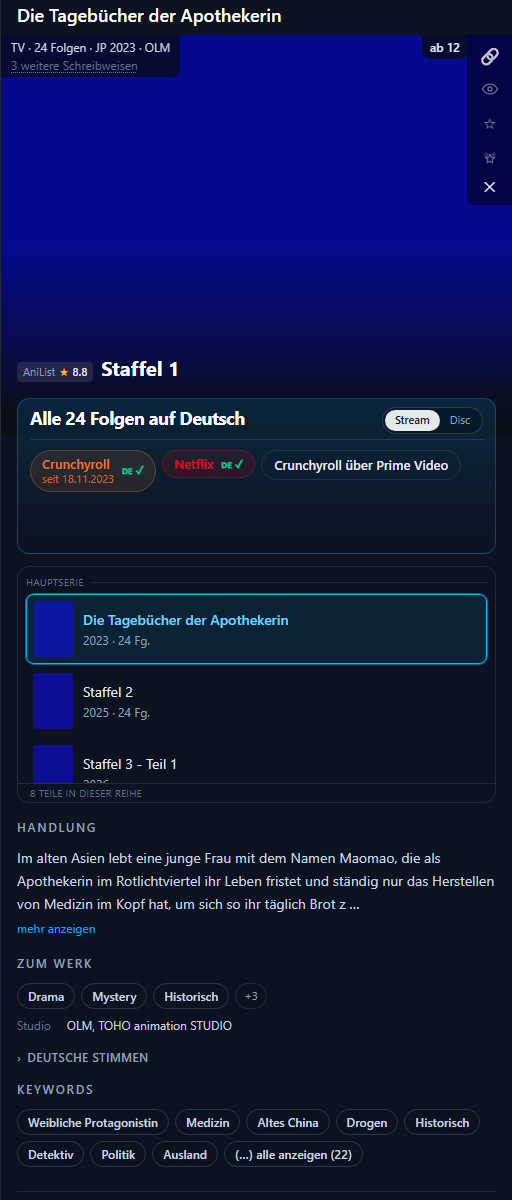
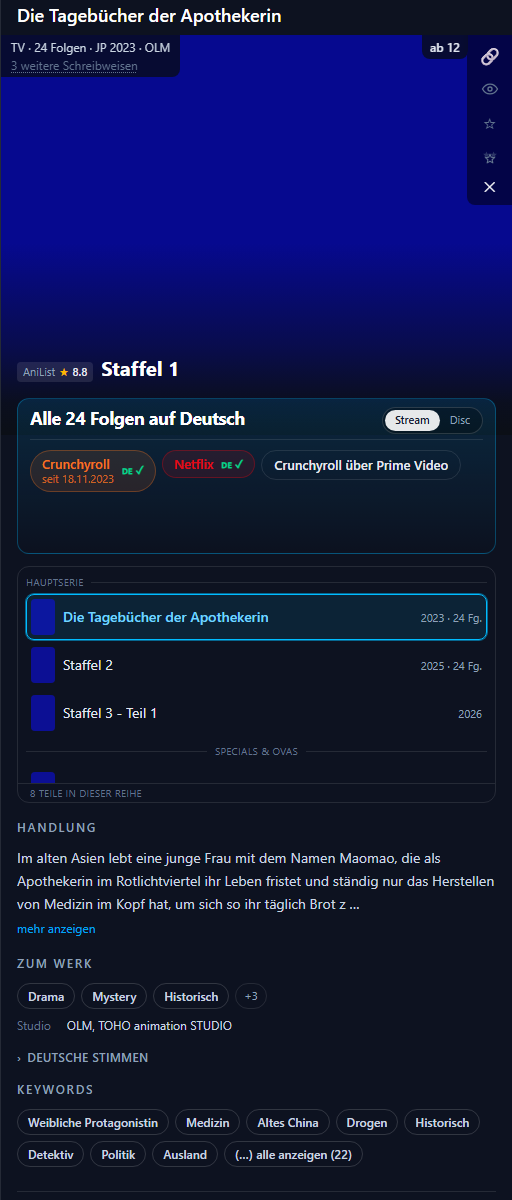
Fünf Einträge statt drei — und ein Plan, den die Messung kippt
Die Reihenliste brauchte 70 px je Zeile, davon 26 Luft: Das Cover (40×56) gab
die Höhe vor, der Text stand darunter. Titel und Angaben stehen jetzt
nebeneinander, das Cover ist 24×36 — 44 px je Zeile, fünf Teile sichtbar
statt drei.

Und zwei Aufgaben sind durch Messung erledigt, nicht durch Code:

**Vollständig deutsche Crunchyroll-Blöcke** sollten Verweise belegen, an denen
die Folgennummern-Regel scheitert. Gemessen über alle 969 Serien: 31 Verweise
ohne Urteil (nicht 40), davon sicher belegbar **null**. Der sichere Schluss
verlangt, dass *alle* Blöcke einer Serie restlos deutsch sind — keine der 16
Adressen erfüllt das, an jeder hängt ein Block, der läuft oder untertitelt ist.

Der naheliegende Ausweg ist gemessen falsch: Eine Präfix-Kette belegt drei
Titel, und einer davon ist „Sword Art Online: Extra Edition" — ein Special mit
einer Folge, das in keinem Block steht. Wörtlich der Fehler, vor dem CLAUDE.md
warnt.

**Die leere Unterzeile** stammt nicht aus den Daten. Über alle drei Bestände
gezählt — 2.766, 454 und 15.120 Titel —: kein einziger, dem alle vier Angaben
fehlen. titles-core lässt kein Feld weg, der Katalog nur `studios`. Es war ein
Renderzustand, und den fängt die Absicherung von heute Nacht.

Dazu die Wache durchgesehen (Stand 03.09., unauffällig) und dabei gefunden:
Ihr Cron hat noch nie von selbst gefeuert, beide Läufe waren von Hand. Ein Tag
ist zu wenig für ein Urteil — am 05.09. steht die Gegenprobe an.

diff --git a/web/src/components/DetailPanel.tsx b/web/src/components/DetailPanel.tsx
@@ -2814,7 +2814,19 @@ export function DetailPanel({
                         }
                         onClick={() => !gewaehlt && wechsleZu(m.id)}
                         className={[
-                          'flex w-full items-center gap-2.5 rounded-lg border p-1.5 text-left transition',
+                          /*
+                            **Eine Zeile je Teil, nicht zwei.**
+
+                            Gemessen am 04.09.2026: 70 px je Zeile, davon 26 px
+                            Luft — das Cover (40×56) gab die Höhe vor, der Text
+                            brauchte 37. Bei 216 px sichtbarer Höhe waren das
+                            drei Teile; eine Reihe mit acht sah nach dreien aus.
+
+                            Titel und Angaben stehen jetzt nebeneinander statt
+                            untereinander, das Cover ist auf 24×36 gekürzt: 44 px
+                            je Zeile, fünf statt drei sichtbar.
+                          */
+                          'flex w-full items-center gap-2 rounded-lg border p-1 text-left transition',
                           'focus:outline-none focus-visible:ring-2 focus-visible:ring-sky-400 disabled:opacity-60',
                           gewaehlt
                             ? 'border-sky-400 bg-sky-50 ring-1 ring-sky-400/50 dark:bg-sky-400/10'
@@ -2827,7 +2839,7 @@ export function DetailPanel({
                       >
                         <span
                           className={[
-                            'block h-14 w-10 shrink-0 overflow-hidden rounded bg-slate-200 dark:bg-white/5',
+                            'block h-9 w-6 shrink-0 overflow-hidden rounded bg-slate-200 dark:bg-white/5',
                             offen ? 'opacity-60' : '',
                           ].join(' ')}
                         >
@@ -2840,10 +2852,10 @@ export function DetailPanel({
                             />
                           )}
                         </span>
-                        <span className="min-w-0 flex-1">
+                        <span className="flex min-w-0 flex-1 items-baseline gap-2">
                           <span
                             className={[
-                              'block text-sm leading-snug',
+                              'min-w-0 truncate text-sm leading-tight',
                               gewaehlt
                                 ? 'font-medium text-sky-700 dark:text-sky-300'
                                 : 'text-slate-700 dark:text-slate-200',
@@ -2851,7 +2863,9 @@ export function DetailPanel({
                           >
                             {beschriftung}
                           </span>
-                          <span className="mt-0.5 block text-xs text-slate-500 dark:text-slate-400">
+                          {/* Rechts, damit der Titel den ganzen übrigen Platz bekommt —
+                              „2026 · 12 Fg." ist immer kurz, ein Titel selten. */}
+                          <span className="ml-auto shrink-0 text-[11px] text-slate-500 dark:text-slate-400">
                             {[
                               m.format && m.format !== 'TV' ? (FORMAT_DE[m.format] ?? m.format) : '',
                               m.jpYear,

diff --git a/status.md b/status.md
@@ -13,14 +13,13 @@ verworfene Quelle sonst in drei Monaten ein zweites Mal geprüft wird.
 
 | Aufgabe | zuletzt geprüft | Notiz |
 |---|---|---|
-| **Wache durchsehen** | **2026-09-03T10:20+02:00** | Sind seit diesem Zeitpunkt mehr als 24 Stunden vergangen, wird `daniel-zum-abarbeiten/00-wache.md` und `00-wache-auswertung.md` gelesen, danach der Zeitstempel hier erneuert. Beurteilt wird entlang der vier Fragen: Was läuft korrekt, wo ist Verbesserungspotenzial, wo sind echte Risiken und Lücken, was läuft komplett falsch. **Der Stempel wird nur erneuert, wenn wirklich gelesen wurde** — sonst ist er eine Zahl, die Händewaschen behauptet |
+| **Wache durchsehen** | **2026-09-04T10:00+02:00** | Sind seit diesem Zeitpunkt mehr als 24 Stunden vergangen, wird `daniel-zum-abarbeiten/00-wache.md` und `00-wache-auswertung.md` gelesen, danach der Zeitstempel hier erneuert. Beurteilt wird entlang der vier Fragen: Was läuft korrekt, wo ist Verbesserungspotenzial, wo sind echte Risiken und Lücken, was läuft komplett falsch. **Der Stempel wird nur erneuert, wenn wirklich gelesen wurde** — sonst ist er eine Zahl, die Händewaschen behauptet |
 
 ### In Arbeit
 
 | Aufgabe | SP | Notiz |
 |---|---|---|
-| **Ein vollständig deutscher Block belegt jede Folge darin** | 5 | Daniel am 04.09.2026, mit Bild: „wieso crunchy fragezeichen? es sollte keine fragezeichen mehr geben seit wir den crunchy lauf implementiert haben" — dazu die Gegenprobe von Hand: „staffel 2 und staffel 2 teil 2, beides weiterhin auf crunchy komplett synchronisiert". **Gemessen an „Schleim" (GYZJ43JMR):** Der Lauf kennt die Serie (`katalog: de`, `deutschImAngebot: true`), und Block „Staffel 2" hat 25 von 25 Folgen deutsch. Unser Bestand teilt dieselbe Staffel in **zwei** Titel zu je 12 Folgen (108511, 116742) plus „Die Schleim-Tagebücher". `beurteileNachFolgennummern` verlangt in Sperre 2, dass die Summe unserer Folgen exakt der höchsten Crunchyroll-Nummer entspricht — sie tut es nicht, also fällt das Urteil aus und die Pille zeigt „?". **Die ungenutzte Schlussfolgerung:** Ist ein Block vollständig deutsch, ist jede Folge darin deutsch, egal wie wir ihn aufteilen. Betroffen sind **40 Crunchyroll-Verweise ohne Urteil**. **Vorsicht ist Pflicht:** Das ist die Stelle, an der `CLAUDE.md` drei teure Fehlschläge dokumentiert („ein Block ist kein Beleg über die Serie"). Der Umbau braucht eine Gegenprobe über alle 969 Serien und einen Blick auf `check:cr-zuordnung`, bevor er ausgeliefert wird |
-| **Leere Unterzeile im Panel — Ursache unbekannt** | 3 | Daniel am 04.09.2026, mit Bild: Der graue Kasten links oben über dem Cover stand leer, bei „Die Tagebücher der Apothekerin". Aufgetreten beim Wechsel zwischen Tabs, **nicht wiederholbar**: „ich kann es nicht mehr reproduzieren … pack auf die todo es morgen zu untersuchen wie es passieren könnte und fix es." **Der sichtbare Schaden ist am selben Tag verhindert** — die Unterzeile wird nur noch gezeichnet, wenn mindestens eine der vier Angaben (Format, Folgenzahl, Jahr, Studio) da ist. **Offen bleibt die Ursache:** Wie kommt ein `title` in den Zustand, in dem alle vier fehlen? Verdächtig ist der Nachlade-Weg beim Einstieg über eine geteilte Adresse (`loadAllTitles` + `loadOhneSynchro`): Ein Titel aus dem Katalog hinter dem Toggle trägt weniger Felder als einer aus dem Hauptbestand. Zu prüfen ist, ob `titles-ohne-synchro.json` Einträge ohne `format`, `jpYear` und `studios` führt und ob einer davon während des Wechsels kurz gewinnt |
+| **Der planmäßige Wache-Lauf hat noch nie von selbst gefeuert** | 2 | Durchgesehen am 04.09.2026: `delta-wache.yml` trägt `cron: '20 7 * * *'` (09:20 Berlin) seit dem 03.09.2026. Beide bisherigen Läufe waren `workflow_dispatch` — von Hand. Der planmäßige Lauf heute um 09:20 blieb aus; um 10:04 von Hand angestoßen. **Ein Tag Beobachtung ist zu wenig für ein Urteil:** GitHub braucht bei einem neuen Cron bis zu einem Tag, und `schedule`-Läufe werden bei Last verworfen statt nachgeholt (siehe `CLAUDE.md`, der stündliche Lauf schafft 5,2 von 24). **Am 05.09. nachsehen:** Fällt der Lauf ein zweites Mal aus, ist der Cron für diesen Zweck untauglich — dann hängt die Wache an `workflow_run` hinter dem Bau-Lauf, der ohnehin täglich läuft |
 | **Zwei Rohfolgen-Adressen ohne Anker** | 2 | Stand 03.09.2026, gemessen an `data/prime-unzugeordnet.json`: Es sind noch **zwei**, aber nicht mehr dieselben. `B0C8X3SVR3` ist zugeordnet. Offen sind: (a) `B0GPD4GNLL` „1. Mein erstes Mal mit einer Gal", 11 Folgen — „kein Titel zu dieser Adresse", ohne Kennung; der Titel steht überhaupt nicht in unserem Bestand. (b) `0ST5YU69NBGTLE16XV4G99HZNC` „Karakai Jouzu no Takagi-san: Staffel 2" (AniList 107068), 12 Folgen — „keine einzige Folge zuzuordnen (Anker: aniSearch)". **Die Folgenliste ist da** (aniSearch 14102, 12 Folgen mit deutschem Titel und Datum, geholt am 01.09.). Der Anker trägt trotzdem nicht, und der Grund steht im Datensatz: Es ist ein **Segment-Anime**. aniSearchs Folgentitel sind Verkettungen („Lehrbuch / Hypnose / Aufwachen / Steine hüpfen lassen"), und kein Anbieter schreibt sie gleich. Bleibt das Datum — aniSearch führt die **japanische** Erstausstrahlung (2019-07-07 ff.), Prime meldet vermutlich das deutsche Veröffentlichungsdatum. **Belegen lässt sich das nur mit einer echten Meldung**; lokal ist `data/prime-zugeordnet.json` leer, weil der Briefkasten-Abruf ein `LAUF_TOKEN` braucht. Nächster Griff: im CI-Lauf mitlesen, welches Datum die Rohfolgen dieser Adresse tragen |
 | **Phase 4: die Erweiterung hört auf zu urteilen** | 8 | Worker ist ausgeliefert (29.08., Version 895b110a). `titelId` kommt seit dem 31.08. gefuellt an. Der Weg steht fuer Prime (`fetch-rohfolgen.ts`); **Netflix und Disney+ gehen ihn nicht** — dort entscheidet weiter die Staffelangabe des Anbieters, siehe „Sammeln und Zuordnen vollstaendig trennen" |
 | **Pokémon Sonne & Mond: 145 statt 146** | 1 | Daniel hat am 30.08.2026 alle zwölf Prime-Bände einzeln geprüft und gemeldet: Staffel 20 mit 43 Folgen (11+11+11+10), Staffel 21 mit 48 (4×12), Staffel 22 mit 54 (14+13+13+14). AniList führt für den Block 146. Seine Gegenprobe: „so wie sie gemeldet wurden so führt sie amazon, also falls da laut anisearch was fehlt, dann hat amazon die nicht." Die Zuordnung über die Folgentitel wird eine Nummer ohne Entsprechung lassen — das ist dann kein Lesefehler, sondern eine Lücke im Angebot, und genau so gehört sie in den Datensatz | **Nachgemessen am 03.09.2026:** Unser Bestand führt dafür **einen** Titel (AniList 97634) mit 146 Folgen, nicht drei Staffeln. Welche Nummer Prime nicht führt, sagt erst die Zuordnung im CI-Lauf — lokal ist `data/prime-zugeordnet.json` leer, weil der Briefkasten-Abruf ein `LAUF_TOKEN` braucht. Der Punkt hängt damit an einem Lauf mit Zugang, nicht an Arbeit hier
@@ -112,6 +111,86 @@ Neun Punkte aus Daniels Bilderserie vom 02. und 03.09.2026, alle ausgeliefert:
   Netflix' eigener Staffelliste, die eine Anmeldung braucht — also entscheidet
   es die Erweiterung, nicht der Bau. Das gehört zu „Sammeln und Zuordnen
   vollständig trennen".
+
+## Recherche 04.09.2026: Die leere Unterzeile stammt nicht aus den Daten
+
+Daniel am 04.09.2026 mit Bild: Der graue Kasten links oben über dem Cover stand
+leer. Aufgetreten beim Wechsel zwischen Tabs, nicht wiederholbar.
+
+Die Unterzeile setzt sich aus vier Angaben zusammen — Format, Folgenzahl (ab 2),
+japanisches Jahr, Studio. Leer ist sie nur, wenn **alle vier** fehlen. Gemessen
+über alle drei Bestände, aus denen ein `title` im Panel stammen kann:
+
+| Bestand | Titel | ohne alle vier Angaben |
+|---|---|---|
+| `titles.json` | 2.766 | **0** |
+| `titles-core.json` (Erstaufruf) | 454 | **0** |
+| `ohne-synchro.json` (Katalog) | 15.120 | **0** |
+
+Dazu der Feldvergleich: `titles-core.json` lässt **kein** Feld weg, das
+`titles.json` führt. Der Katalog führt kein `studios`, aber `format`, `episodes`
+und `jpYear` — also nie alle vier leer.
+
+**Damit ist der Zustand aus den Daten nicht erklärbar.** Er kann nur ein
+Renderzustand gewesen sein, und den fängt die Absicherung vom selben Tag: Die
+Unterzeile wird nur noch gezeichnet, wenn mindestens eine der vier Angaben da
+ist. Weiter zu suchen, ohne den Fall wiederholen zu können, wäre Raten.
+
+**Wieder aufgemacht wird der Punkt, wenn Daniel den leeren Kasten erneut sieht** —
+dann mit dem Wissen, dass es an keinem Datensatz liegt.
+
+## Recherche 04.09.2026: Vollständig deutsche Crunchyroll-Blöcke — der Hebel existiert nicht
+
+**Die Vermutung war:** Ist ein Crunchyroll-Block restlos deutsch, ist jede Folge
+darin deutsch — egal wie unser Bestand ihn aufteilt. Damit müssten sich Verweise
+belegen lassen, an denen `beurteileNachFolgennummern` scheitert, weil die Summe
+unserer Folgen nicht der höchsten Crunchyroll-Nummer entspricht (Fall „Schleim":
+Block „Staffel 2" hat 25 von 25 deutsch, unser Bestand teilt in 2×12).
+
+**Gemessen am 04.09.2026** über alle 969 Serien des Crunchyroll-Bestands:
+
+| | |
+|---|---|
+| Verweise ohne Urteil an Adressen mit `katalog: de` | **31** (nicht 40 — die Zahl in der Aufgabe war veraltet) |
+| davon an Adressen mit mindestens einem restlos deutschen Block | 30 an 15 Adressen |
+| **davon sicher belegbar** | **0** |
+
+**Warum null.** Der sichere Schluss braucht keine Zuordnung, aber eine
+Voraussetzung: *alle* Blöcke der Serie müssen restlos deutsch sein — dann ist
+jede Folge deutsch, und es ist gleichgültig, welcher Titel zu welchem Block
+gehört. **Keine einzige der 16 betroffenen Adressen erfüllt das.** An jeder hängt
+mindestens ein Block, der läuft oder untertitelt ist:
+
+```
+free-iwatobi-swim-club      Free! — Iwatobi Swim Club: 0/14 dt, 12 fremd
+fruits-basket               Fruits Basket (2019): 0/25 dt, 25 fremd
+kaguya-sama-love-is-war     Staffel 1: 0/12 dt, 12 fremd
+the-promised-neverland      Staffel 2: 0/12 dt, 12 fremd
+that-time-i-got-…-slime     Staffel 4: 16/19 dt, 1 fremd
+rezero-…                    Staffel 4: 11/13 dt
+sword-art-online            Alicization: 24/25 dt, 1 fremd
+nierautomata-ver11a         24/25 dt
+```
+
+**Der naheliegende Ausweg ist gemessen falsch.** Eine Präfix-Kette — Blöcke der
+Reihe nach, unsere Titel nach Jahr, solange die Summen aufgehen — belegt genau
+**drei** Titel, und mindestens einer davon ist falsch: „Sword Art Online: Extra
+Edition" ist ein **Special** mit einer Folge und steht in keinem Block; die Kette
+schob es in „Sword Art Online (25)". Das ist wörtlich der Fehler, vor dem
+`CLAUDE.md` warnt („Specials und Filme sind ausgenommen … sie stehen in keinem der
+Blöcke"). Der zweite Treffer, „Kaguya-sama: Love Is War (12)", wäre über den Block
+der **zweiten** Staffel belegt worden — richtig nur durch Zufall gleicher
+Folgenzahl.
+
+**Entscheidung: nicht gebaut.** Drei Urteile, davon eins nachweislich falsch, gegen
+einen Umbau an der Stelle mit den drei teuersten dokumentierten Fehlschlägen des
+Projekts. Die 31 offenen Verweise sind keine ungenutzten Belege, sondern echte
+offene Fragen — dort steht ein Block, der gerade läuft, oder einer ohne deutsche
+Fassung.
+
+**Wann es sich neu zu bewerten lohnt:** Wenn eine der acht Adressen oben ihre
+laufende Staffel abschließt und der Block danach restlos deutsch ist. Dann greift
+die sichere Form ohne jede Zuordnung. Bei „Schleim" ist das die Staffel 4.
 
 ## Recherche 31.08.2026: Deutsche Titel für Anime ohne belegte Synchro
 
